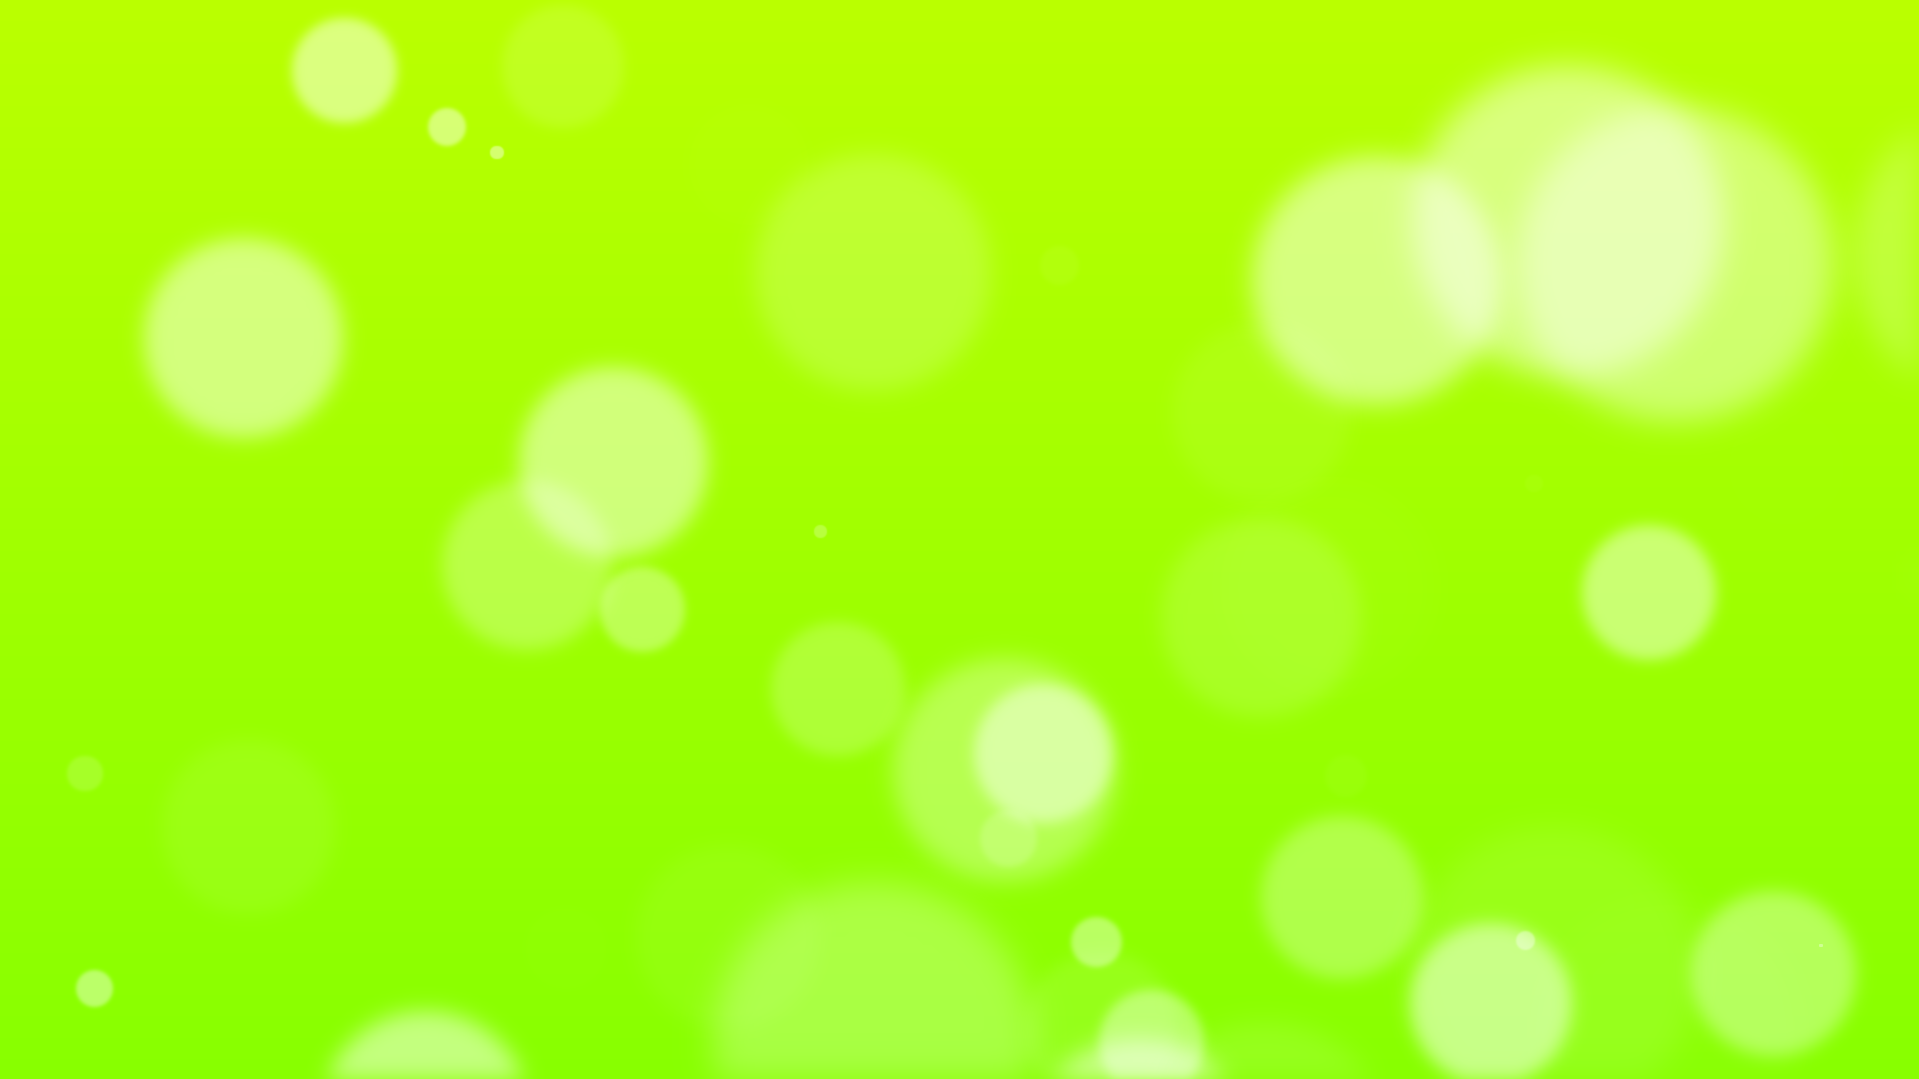
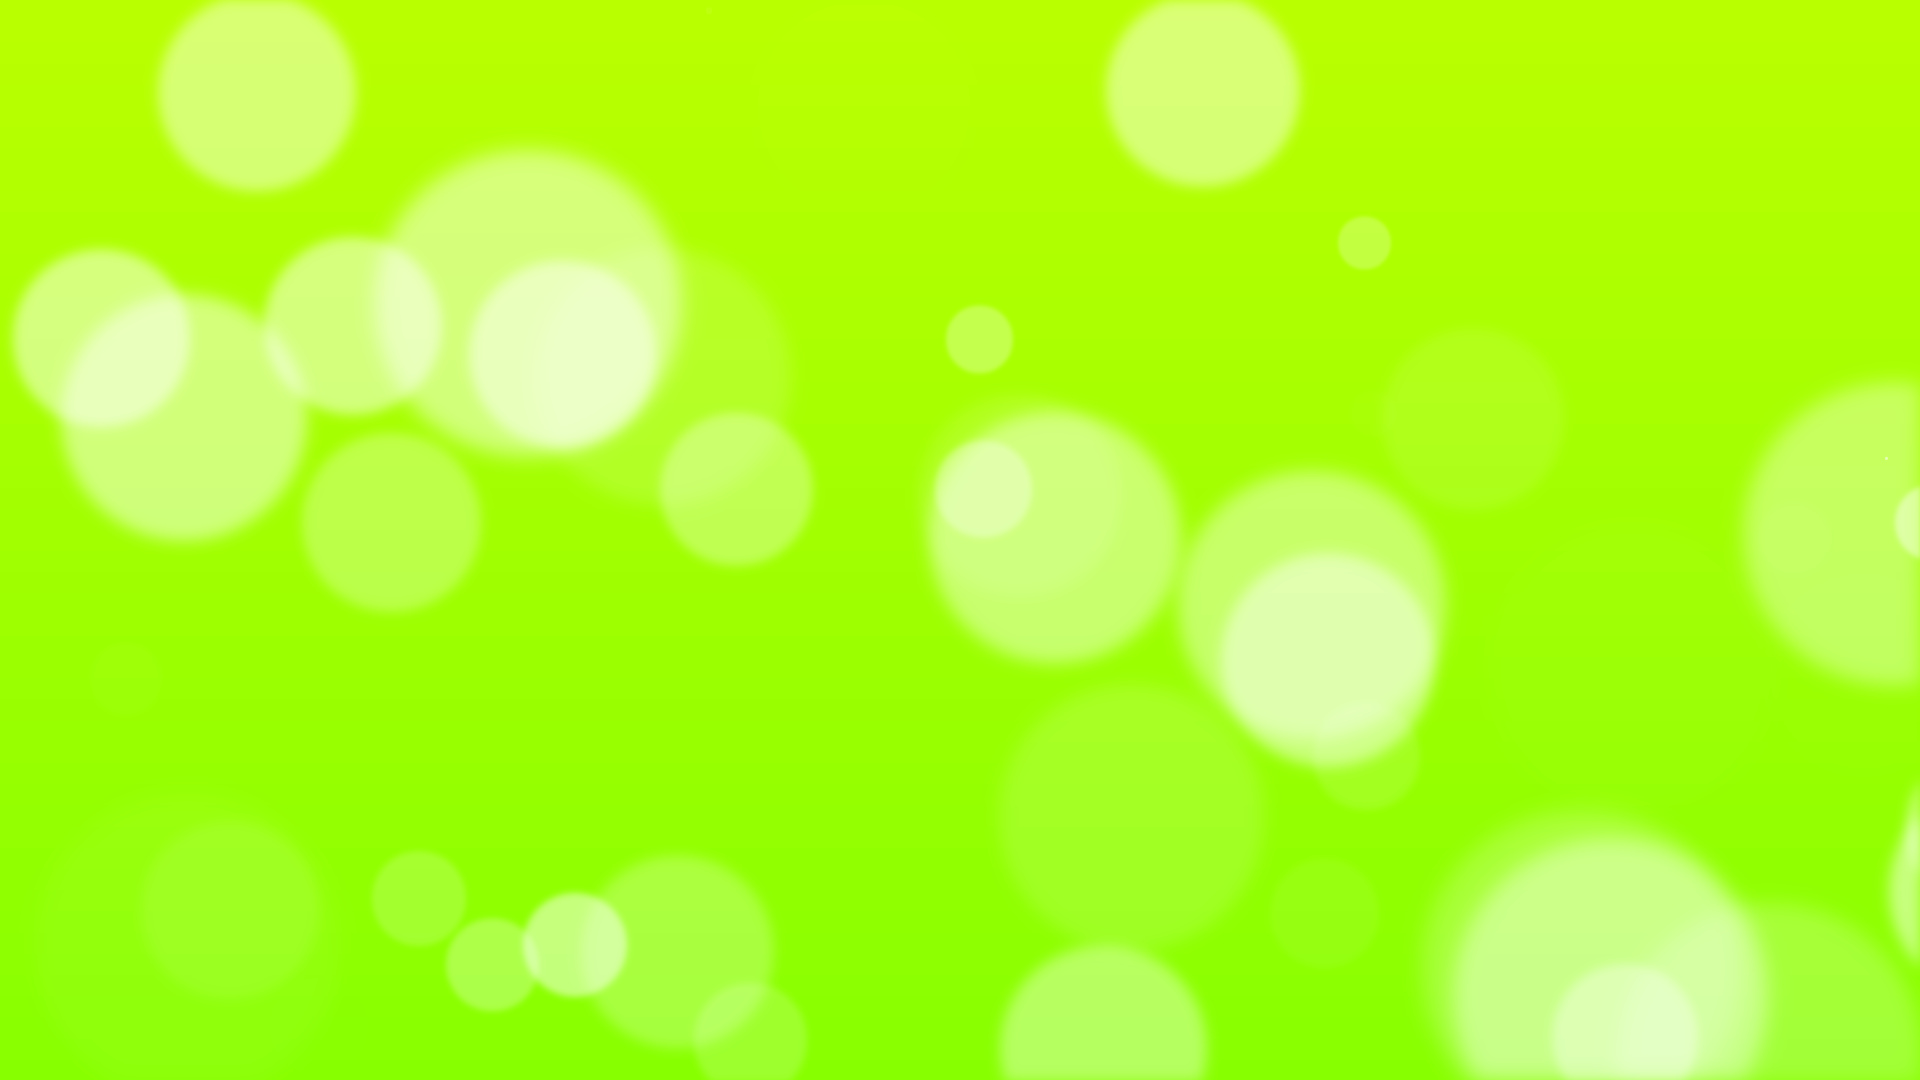
Add a slight floating bubble animation. Use em unit for hi-res responsiveness.

diff --git a/angularjs-bubbles.html b/angularjs-bubbles.html
@@ -25,12 +25,15 @@
       @keyframes bubble-animation {
         0% {
           opacity: 0;
+          transform: translateY(0em);
         }
         50% {
           opacity: 0.5;
+          transform: translateY(-3em);
         }
         100% {
           opacity: 0;
+          transform: translateY(-6em);
         }
       }
     </style>
@@ -76,7 +79,7 @@
               top: `${this.y}px`,
               width: `${this.size}px`,
               height: `${this.size}px`,
-              filter: `blur(${this.size / 20}px)`,
+              filter: `blur(${this.size / 500}em)`,
             };
           }
         }
